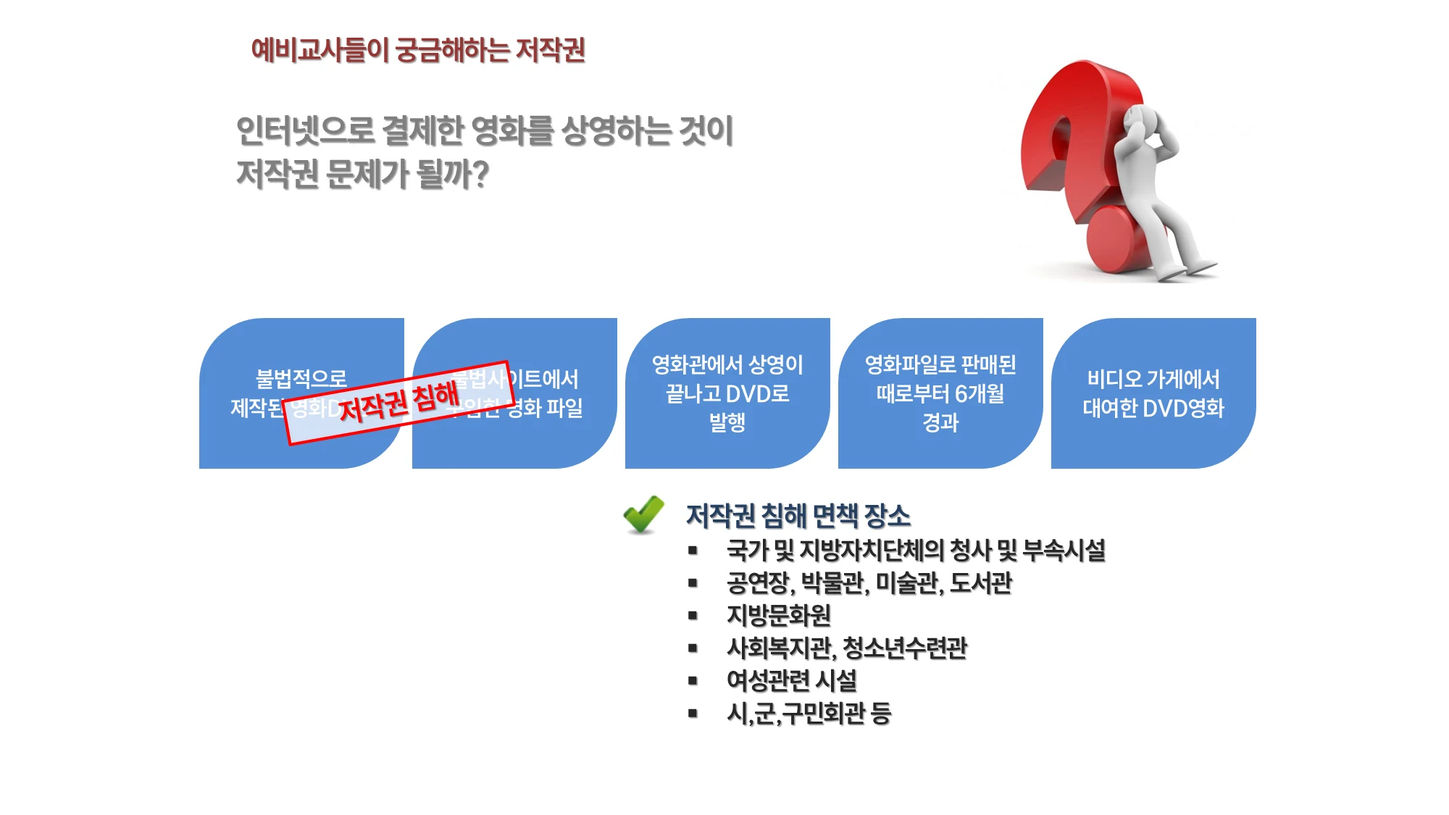
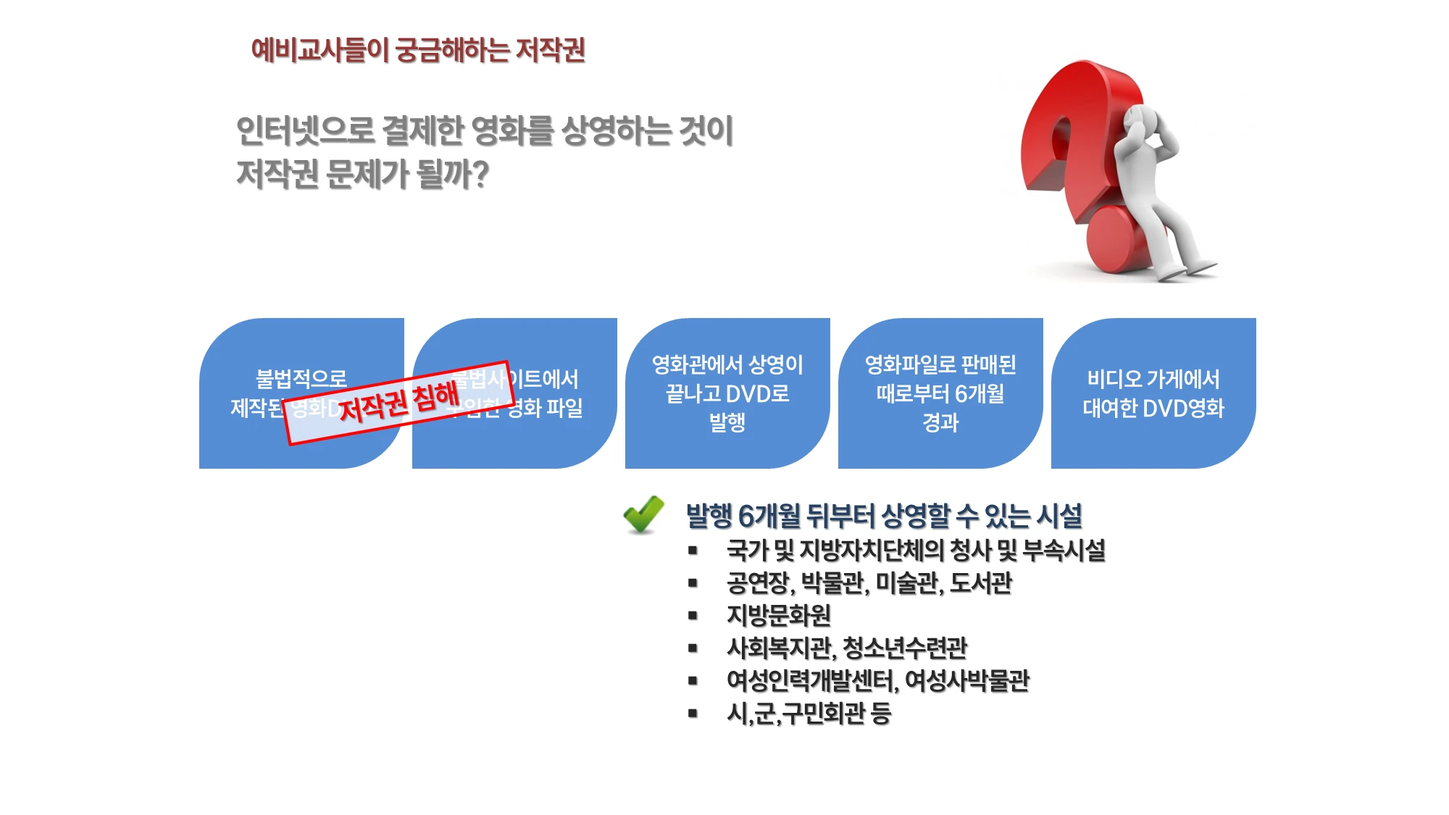
Revise computer education lecture 10 and replace its activities
Correct dates, definitions and typos, bring the copyright slides in line
with current law, and add 2025 survey figures. Slide 7 now covers
generative AI with the AI Summit Seoul & Expo 2026 poster. Two new slides
cover generative AI in cyberbullying and in copyright.

The privacy activity becomes a re-identification demo, and the game
becomes a copyright counselling quiz with grounds for each answer.
The deck now has 62 pages.

Changed region(s): [[0.527, 0.8089, 0.713, 0.8711], [0.465, 0.5911, 0.744, 0.6533]]

diff --git a/js/computer-education2-games.js b/js/computer-education2-games.js
@@ -16,22 +16,22 @@
   const button = (id, label, extra = '') => `<button type="button" id="${id}" ${extra}>${label}</button>`;
   const titles = {
     8: 'CNN, RNN, 확산 모델 체험실', 9: '우주 광물 분류소',
-    10: '디지털 시민 편집국', 11: '센서 로봇 구조 미션'
+    10: '교무실 저작권 상담소', 11: '센서 로봇 구조 미션'
   };
   const goals = {
     8: '같은 이미지를 세 모델에 넣고 이미지가 어떻게 바뀌는지 비교하세요. 샘플을 고르거나, 직접 그리거나, 내 이미지를 올릴 수 있습니다.',
     9: '학습 카드 네 장으로 1-최근접 이웃 분류기를 만들고 새 광물 8개 중 7개 이상을 분류하세요.',
-    10: '게시물의 위험 요소를 직접 고쳐 세 번의 공유 준비 심사를 통과하세요.',
+    10: '동료 선생님 여섯 분이 고민을 들고 왔습니다. 사연을 읽고 알맞은 답을 골라 주세요. 다섯 개 넘게 맞히면 성공입니다.',
     11: '센서 조건에 맞는 행동을 연결해 로봇을 출발점에서 구조 지점까지 보내세요.'
   };
   const reflections = {
     8: 'CNN의 필터를 바꿨을 때 어떤 무늬가 밝게 남았나요? RNN의 기억 유지율을 낮추면 마지막 기억에서 윗부분 정보는 어떻게 되나요? 확산 모델은 왜 학습 이미지와 비슷한 그림을 만들었을까요? 이 실습은 학습을 실행하지 않고 원리만 보여 주는 작은 모형입니다.',
     9: '같은 수의 학습 카드라도 어떤 위치의 사례를 골랐을 때 성능이 좋아졌나요? 여기서는 두 특성을 같은 척도로 비교합니다. 반복해서 본 검증 자료와 별도로, 최종 성능을 평가할 새로운 시험 자료가 필요합니다.',
-    10: '정보를 가리는 것, 사용 조건을 확인하는 것, 상대를 존중하는 행동은 각각 어떤 위험을 줄이나요? 모든 인물과 자료는 게임용 가상 사례입니다. 실제 게시나 신고는 실행되지 않습니다.',
+    10: '틀린 사연은 어디에서 헷갈렸나요? 수업에 쓰는 것과 수업 밖에서 나눠 주는 것은 무엇이 다른지, 출처만 밝히면 되는 때와 허락을 받아야 하는 때는 언제인지 짝과 말해 보세요.',
     11: '입력인 센서 값, 처리인 조건문, 출력인 모터 행동을 연결해 설명해 보세요. 실제 로봇에서는 센서 오차와 회전 시간도 보정해야 합니다. 이 활동은 하드웨어에 연결되지 않는 격자 모형입니다.'
   };
   function shell(body) {
-    game.innerHTML = `<div class="cg-heading"><span class="cg-eyebrow">${chapter}강 ${chapter === 8 ? '체험 실습, 2인 1조, 10~15분' : '게임 실습, 2인 1조, 8~12분'}</span><h2>${titles[chapter]}</h2><p>${goals[chapter]}</p></div>${body}<details class="cg-reflection"><summary>활동 후 함께 생각하기</summary><p>${reflections[chapter]}</p><p>한 사람은 조작, 한 사람은 결과 예측을 맡고 역할을 바꿔 한 번 더 도전하세요.</p></details>`;
+    game.innerHTML = `<div class="cg-heading"><span class="cg-eyebrow">${chapter}강 ${chapter === 8 ? '체험 실습, 2인 1조, 10~15분' : '게임 실습, 2인 1조, 8~12분'}</span><h2>${titles[chapter]}</h2><p>${goals[chapter]}</p></div>${body}<details class="cg-reflection"><summary>활동 후 함께 생각하기</summary><p>${reflections[chapter]}</p><p>${chapter === 10 ? '한 사람은 답을 고르고, 다른 사람은 까닭을 먼저 말합니다. 사연마다 역할을 바꾸세요.' : '한 사람은 조작, 한 사람은 결과 예측을 맡고 역할을 바꿔 한 번 더 도전하세요.'}</p></details>`;
   }
   function feedback(message, success = false) {
     q('#cg-feedback').textContent = message;
@@ -83,44 +83,50 @@
     feedback('같은 이름의 카드만 고르면 어떤 일이 생길까요? 예상한 뒤 실행해 보세요.');
   }
 
-  function editorGame() {
-    let mission = 0, attempts = 0, complete = false;
-    const missions = [
-      { title: '1. 작품 사진의 이름표', brief: '공개할 작품 사진에 가상 학생의 이름과 연락처가 보입니다. 작품 설명은 살리고 두 정보를 가려 주세요.', fields: '<label class="cg-check"><input id="cg-name" type="checkbox"> 이름 가리기</label><label class="cg-check"><input id="cg-contact" type="checkbox"> 연락처 가리기</label>', preview: () => `<b>우리 반 발명품 전시</b><p>제작자: ${q('#cg-name').checked ? '익명 학생' : '가상 학생 나별'}</p><p>연락처: ${q('#cg-contact').checked ? '비공개' : '별빛반 내부 연락처'}</p><p>종이로 만든 태양광 자동차를 소개합니다.</p>`, check: () => [q('#cg-name').checked ? '' : '이름표를 가려 주세요.', q('#cg-contact').checked ? '' : '연락처를 가려 주세요.'] },
-      { title: '2. 허락받은 별 그림', brief: '작가가 “이 활동의 게시물에 사용 가능, 작가 이름 표시”라는 조건으로 별 그림을 제공했습니다. 허락된 파일을 고르고 조건을 지켜 주세요.', fields: '<label>사용할 그림<select id="cg-asset"><option value="unknown">인터넷에서 찾은 출처 불명 그림</option><option value="allowed">가상 작가 하늘의 허락받은 별 그림</option></select></label><label class="cg-check"><input id="cg-credit" type="checkbox"> 작가 이름과 제공 사실 표시</label>', preview: () => `<b>우주 탐사 안내</b><div class="cg-art" aria-label="선택한 그림">${q('#cg-asset').value === 'allowed' ? '☆ ☆ ☆' : '? ? ?'}</div><p>${q('#cg-credit').checked ? '그림: 가상 작가 하늘, 작가 제공' : '그림 정보가 표시되지 않았습니다.'}</p>`, check: () => [q('#cg-asset').value === 'allowed' ? '' : '사용 허락이 확인된 파일로 바꿔 주세요.', q('#cg-credit').checked ? '' : '작가가 요청한 표시 조건을 지켜 주세요.'] },
-      { title: '3. 친구를 존중하는 전시', brief: '친구는 얼굴 공개에 동의하지 않았습니다. 얼굴을 가리고 작품에 대한 구체적이고 존중하는 댓글을 선택하세요.', fields: '<label class="cg-check"><input id="cg-face" type="checkbox"> 동의하지 않은 친구 얼굴 가리기</label><label>전시 댓글<select id="cg-comment"><option value="tease">이것도 작품이야? 다 같이 놀리자.</option><option value="kind">바퀴를 연결한 아이디어가 좋아. 더 잘 굴러가게 함께 고쳐 볼까?</option><option value="forward">웃긴 사진이니까 다른 단체방에도 퍼뜨리자.</option></select></label>', preview: () => `<b>친구의 작품을 소개합니다</b><p>사진: ${q('#cg-face').checked ? '작품과 가려진 얼굴' : '작품과 동의하지 않은 친구 얼굴'}</p><blockquote>${q('#cg-comment').selectedOptions[0].textContent}</blockquote>`, check: () => [q('#cg-face').checked ? '' : '공개에 동의하지 않은 얼굴을 가려 주세요.', q('#cg-comment').value === 'kind' ? '' : '조롱과 무단 확산 대신 존중하는 피드백을 선택하세요.'] }
+  function counselGame() {
+    const cases = [
+      { title: '문제집 한 단원', who: '3학년 김 선생님', story: '시중 수학 문제집 한 단원을 통째로 스캔해서 학급 온라인 방에 올리고 숙제로 내려고 해요.', options: ['수업에 쓰는 거니까 그대로 올려도 됩니다.', '출처만 적으면 올려도 됩니다.', '올리지 마세요. 꼭 필요한 몇 문제만 수업 시간에 다루거나 문제를 직접 만드세요.'], answer: 2, why: '수업에 쓰더라도 공표된 저작물의 일부분만 쓸 수 있습니다(저작권법 제25조 제3항). 문제집은 학생이 사서 쓰라고 만든 책이라, 한 단원을 통째로 나눠 주면 책을 살 까닭이 없어집니다. 출처를 적어도 마찬가지입니다.' },
+      { title: '유튜브 실험 영상', who: '5학년 박 선생님', story: '과학 시간에 유튜브에 공개된 화산 실험 영상을 교실 텔레비전으로 3분쯤 보여 주려고 해요.', options: ['보여 주셔도 됩니다.', '영상을 올린 사람에게 먼저 허락을 받아야 합니다.', '교실에서는 남이 만든 영상을 틀 수 없습니다.'], answer: 0, why: '수업에 필요한 만큼 공표된 저작물을 보여 주는 일은 허락 없이 할 수 있습니다(저작권법 제25조 제3항). 다만 영상을 내려받아 학급 누리집에 다시 올리는 일은 따로 따져 봐야 합니다.' },
+      { title: '졸업 영상 배경음악', who: '6학년 이 선생님', story: '졸업 영상에 요즘 인기 있는 가요를 배경음악으로 넣어 학부모 단체방에 파일로 보내려고 해요.', options: ['졸업 기념이니 괜찮습니다.', '30초만 넣으면 괜찮습니다.', '음악 저작권자에게 허락을 받거나, 자유롭게 쓸 수 있는 음원으로 바꾸세요.'], answer: 2, why: '졸업 영상을 나눠 주는 일은 수업이 아니어서 제25조가 적용되지 않습니다. 음악을 영상에 넣고 단체방에 보내려면 저작권자의 허락이 있어야 합니다. 30초면 괜찮다는 말은 근거가 없습니다. 공유마당 같은 곳의 자유 이용 음원을 쓰면 됩니다.' },
+      { title: '체험 학습 사진', who: '2학년 최 선생님', story: '현장 체험 학습 사진을 학교 누리집에 올리려는데, 아이들 얼굴이 또렷이 보여요.', options: ['학교 행사 사진이니 그냥 올리셔도 됩니다.', '보호자가 동의한 아이만 올리고, 나머지는 얼굴이 안 보이는 사진으로 고르세요.', '아이에게 물어보고 좋다고 하면 올리세요.'], answer: 1, why: '얼굴 사진은 누구인지 알아볼 수 있는 개인정보입니다. 만 14세 미만 아동의 개인정보를 동의받아 처리할 때는 법정대리인의 동의가 있어야 합니다(개인정보 보호법 제22조의2).' },
+      { title: '무료 글꼴', who: '행정실 정 주무관', story: '인터넷에서 받은 ‘개인 사용 무료’ 글꼴로 학교 현수막과 가정통신문을 만들려고 해요.', options: ['무료 글꼴이니 어디에 써도 됩니다.', '사용 범위를 확인하고, 학교에서 쓸 수 없으면 다른 글꼴로 바꾸세요.', '글꼴은 저작권과 상관없습니다.'], answer: 1, why: '글꼴 파일은 컴퓨터프로그램저작물로 보호받습니다. ‘개인 사용 무료’는 학교나 기관에서 쓰는 것까지 허락한 것이 아닐 수 있으니, 내려받은 곳에서 사용 범위를 먼저 확인해야 합니다.' },
+      { title: 'AI가 그린 주인공', who: '4학년 한 선생님', story: '학생이 생성형 AI로 만든 그림을 학급 신문에 실으려는데, 유명한 만화 주인공과 거의 똑같아요.', options: ['AI가 만들었으니 저작권 문제가 없습니다.', '학생 이름만 적으면 됩니다.', '싣지 마세요. 기존 캐릭터와 닮지 않게 다시 만들고, AI로 만들었다고 밝히세요.'], answer: 2, why: 'AI가 만든 그림이라도 기존 저작물과 비슷하면 저작권 침해가 될 수 있습니다. 누가 만들었는지 적는다고 달라지지 않습니다.' }
     ];
-    shell(`<div class="cg-score" id="cg-score"></div><div class="cg-columns"><section class="cg-card"><h3 id="cg-mission"></h3><p id="cg-brief"></p><fieldset id="cg-edit"><legend>게시물 수정</legend><div id="cg-fields" class="cg-fields"></div></fieldset><div class="cg-actions">${button('cg-run', '공유 준비 심사')}${button('cg-next', '다음 미션', 'disabled')}${button('cg-reset', '처음부터')}</div></section><section class="cg-card"><h3>게시물 미리보기</h3><div id="cg-preview" class="cg-post"></div><p class="cg-note">연습용 미리보기입니다. 외부에 게시되지 않습니다.</p></section></div>${status}`);
+    let now = 0, results = [], checked = false;
+    shell(`<div class="cg-score" id="cg-score"></div><div class="cg-columns"><section class="cg-card"><h3 id="cg-mission"></h3><p id="cg-brief"></p><fieldset id="cg-edit"><legend>어떻게 답할까요?</legend><div id="cg-fields" class="cg-fields"></div></fieldset><div class="cg-actions">${button('cg-run', '답 확인')}${button('cg-next', '다음 사연', 'disabled')}${button('cg-reset', '처음부터')}</div></section><section class="cg-card"><h3>상담 기록</h3><ol id="cg-log" class="cg-post"></ol><p class="cg-note">사연 속 인물은 모두 지어낸 사람입니다.</p></section></div>${status}`);
+    function draw() {
+      q('#cg-score').textContent = `사연 ${now + 1} / ${cases.length}, 맞힌 사연 ${results.filter(Boolean).length}개`;
+      q('#cg-log').innerHTML = cases.map((c, i) => `<li>${c.title}: ${i < results.length ? results[i] ? '○ 맞힘' : '× 틀림' : i === now ? '상담 중' : '기다리는 중'}</li>`).join('');
+    }
     function start() {
-      const m = missions[mission];
-      complete = false;
-      q('#cg-score').textContent = `공유 준비 도장 ${mission} / 3`;
-      q('#cg-mission').textContent = m.title;
-      q('#cg-brief').textContent = m.brief;
-      q('#cg-fields').innerHTML = m.fields;
+      const c = cases[now];
+      checked = false;
+      q('#cg-mission').textContent = `${now + 1}. ${c.title}`;
+      q('#cg-brief').textContent = `${c.who}: “${c.story}”`;
+      q('#cg-fields').innerHTML = c.options.map((text, i) => `<label class="cg-check"><input type="radio" name="cg-answer" value="${i}"> ${text}</label>`).join('');
       q('#cg-edit').disabled = false;
       q('#cg-run').disabled = false;
       q('#cg-next').disabled = true;
-      q('#cg-next').textContent = mission === 2 ? '편집국 임무 완료' : '다음 미션';
-      const preview = () => { q('#cg-preview').innerHTML = m.preview(); feedback('미리보기가 바뀌었습니다. 공개할 내용을 확인한 뒤 심사하세요.'); };
-      all('#cg-fields input, #cg-fields select').forEach(el => el.onchange = preview);
-      preview();
+      q('#cg-next').textContent = now === cases.length - 1 ? '상담 끝' : '다음 사연';
+      draw();
+      feedback('답을 고르기 전에 그렇게 생각한 까닭을 짝에게 먼저 말해 보세요.');
     }
     q('#cg-run').onclick = () => {
-      if (complete) return;
-      attempts++;
-      const issues = missions[mission].check().filter(Boolean);
-      complete = issues.length === 0;
-      if (complete) {
-        q('#cg-score').textContent = `공유 준비 도장 ${mission + 1} / 3, 심사 ${attempts}회`;
-        q('#cg-edit').disabled = true;
-        q('#cg-run').disabled = true;
-        q('#cg-next').disabled = mission === 2;
-      }
-      feedback(complete ? mission === 2 ? '임무 성공! 세 게시물의 공유 준비를 마쳤습니다. 각 미션에서 줄인 위험을 설명해 보세요.' : '심사 통과! 공유 준비 도장을 받았습니다. 다음 미션으로 이동하세요.' : `수정 후 재심사: ${issues.join(' ')}`, complete);
+      if (checked) return;
+      const picked = q('input[name="cg-answer"]:checked');
+      if (!picked) { feedback('답을 하나 골라 주세요.'); return; }
+      const c = cases[now], right = Number(picked.value) === c.answer;
+      checked = true;
+      results.push(right);
+      q('#cg-edit').disabled = true;
+      q('#cg-run').disabled = true;
+      const last = now === cases.length - 1, score = results.filter(Boolean).length;
+      q('#cg-next').disabled = last;
+      draw();
+      feedback(`${right ? '맞았습니다.' : `아쉽습니다. 알맞은 답은 “${c.options[c.answer]}”`} ${c.why}${last ? ` 상담을 마쳤습니다. 여섯 사연 가운데 ${score}개를 맞혔습니다. ${score >= 5 ? '상담소를 맡겨도 되겠습니다.' : '틀린 사연의 까닭을 다시 읽고 처음부터 한 번 더 해 보세요.'}` : ''}`, right);
     };
-    q('#cg-next').onclick = () => { if (complete && mission < 2) { mission++; start(); } };
-    q('#cg-reset').onclick = () => { mission = 0; attempts = 0; start(); };
+    q('#cg-next').onclick = () => { if (checked && now < cases.length - 1) { now++; start(); } };
+    q('#cg-reset').onclick = () => { now = 0; results = []; start(); };
     start();
   }
 
@@ -190,7 +196,7 @@
   const worksheets = {
     8: ['세로 경계 필터와 가로 경계 필터를 적용하고, 특징 지도에서 밝게 남은 곳을 표시하세요.', 'RNN 기억 유지율을 0.3과 0.9로 바꿔 32줄을 읽은 뒤, 마지막 기억에 남은 정보를 비교하세요.', '확산 모델에서 잡음 단계 t가 커질 때 그림의 변화를 적고, 생성 결과가 어느 학습 이미지에 가까웠는지 기록하세요.'],
     9: ['밝기와 질량의 분포를 보며 충전용, 냉각용 학습 사례 네 장을 고르세요.', '새 광물과 가장 가까운 학습 카드의 이름으로 분류하고 정답과 비교하세요.', '오배송을 줄이도록 사례를 바꾼 뒤, 별도 시험 자료가 필요한 이유를 쓰세요.'],
-    10: ['작품 사진의 이름과 연락처를 가리고 남길 정보를 정하세요.', '작가가 허락한 파일과 요청한 표시 조건을 확인하세요.', '얼굴 공개 동의를 확인하고 작품에 대한 존중하는 댓글을 작성하세요.'],
+    10: ['사연을 읽고 답을 고르기 전에, 그렇게 생각한 까닭을 한 줄로 적으세요.', '수업에 쓰는 일(저작권법 제25조)에 해당하는 사연과 그렇지 않은 사연을 나누세요.', '학교에서 겪을 만한 사연을 하나 지어 짝에게 물어보세요.'],
     11: ['오른쪽이 열렸을 때, 앞쪽만 열렸을 때, 둘 다 막혔을 때의 행동을 정하세요.', '오른쪽 회전 후 전진, 전진, 왼쪽 회전 규칙을 미로에서 실행하세요.', '센서 입력, 선택한 조건, 모터 행동, 위치를 한 단계씩 기록하세요.']
   };
   let mounted = false;
@@ -205,9 +211,9 @@
       if (!active || mounted) return;
       mounted = true;
       if (window.LecturePrint?.mode) {
-        shell(`<section class="cg-worksheet"><h3>실습 활동지</h3><ol>${worksheets[chapter].map(text => `<li>${text}</li>`).join('')}</ol><p>예측:</p><div class="cg-write-space"></div><p>실행 결과와 수정한 점:</p><div class="cg-write-space"></div><p>온라인 교안의 마지막 슬라이드에서 직접 실행할 수 있습니다.</p></section>`);
+        shell(`<section class="cg-worksheet"><h3>실습 활동지</h3><ol>${worksheets[chapter].map(text => `<li>${text}</li>`).join('')}</ol><p>${chapter === 10 ? '내 생각:' : '예측:'}</p><div class="cg-write-space"></div><p>${chapter === 10 ? '확인한 답과 까닭:' : '실행 결과와 수정한 점:'}</p><div class="cg-write-space"></div><p>온라인 교안의 마지막 슬라이드에서 직접 실행할 수 있습니다.</p></section>`);
         q('.cg-reflection').open = true;
-      } else ({8: modelLab, 9: mineralGame, 10: editorGame, 11: robotGame}[chapter])();
+      } else ({8: modelLab, 9: mineralGame, 10: counselGame, 11: robotGame}[chapter])();
     }
   };
 })();

diff --git a/lectures/computer-education2/10/index.html b/lectures/computer-education2/10/index.html
@@ -12,7 +12,7 @@
                             <path d="M21 12.79A9 9 0 1 1 11.21 3 7 7 0 0 0 21 12.79z" stroke="currentColor" stroke-width="2" stroke-linecap="round" stroke-linejoin="round" />
                         </svg>
                     </button><button id="mobileMenuToggle" class="mobile-menu-toggle" aria-label="메뉴 열기" aria-expanded="false">☰</button></div></div></header>
-<main data-version="20261022games" class="ce-viewer" data-chapter="10" id="main-content" tabindex="-1"><div class="ce-heading"><div><a href="/lectures/">강의자료</a> <span aria-hidden="true">›</span> <a href="/lectures/computer-education2/">컴퓨터과교육2</a><h1>10. 디지털 윤리와 저작권</h1></div><a href="/lectures/computer-education2/">전체 강의 보기</a></div>
+<main data-version="20261112l10" class="ce-viewer" data-chapter="10" id="main-content" tabindex="-1"><div class="ce-heading"><div><a href="/lectures/">강의자료</a> <span aria-hidden="true">›</span> <a href="/lectures/computer-education2/">컴퓨터과교육2</a><h1>10. 디지털 윤리와 저작권</h1></div><a href="/lectures/computer-education2/">전체 강의 보기</a></div>
 <svg width="0" height="0" style="position:absolute" aria-hidden="true"><defs><symbol id="ce-icon-chevron-left" viewBox="0 0 24 24">
   <path d="m15 18-6-6 6-6" />
 </symbol><symbol id="ce-icon-chevron-right" viewBox="0 0 24 24">
@@ -57,10 +57,10 @@
   <line x1="16" x2="14" y1="3" y2="21" />
 </symbol><symbol id="ce-icon-play" viewBox="0 0 24 24">
   <path d="M5 5a2 2 0 0 1 3.008-1.728l11.997 6.998a2 2 0 0 1 .003 3.458l-12 7A2 2 0 0 1 5 19z" />
-</symbol></defs></svg><div class="ce-stage" id="ce-stage"><div class="ce-viewport"><div class="ce-canvas"><img class="ce-slide-image" id="ce-image" width="2000" height="1125" alt="강의 슬라이드" aria-describedby="ce-slide-text" src="/images/lectures/computer-education2/10/001.webp"><div id="ce-media"></div><section class="ce-lab" id="ce-lab" hidden aria-label="체험 슬라이드"></section></div></div><div class="ce-toolbar" role="toolbar" aria-label="슬라이드 도구"><button id="ce-prev" type="button" class="ce-glass ce-prev" aria-label="이전 슬라이드" data-tip="이전 슬라이드" ><svg class="ce-icon" viewBox="0 0 24 24" aria-hidden="true" focusable="false"><use href="#ce-icon-chevron-left"></use></svg></button><button id="ce-next" type="button" class="ce-glass ce-next" aria-label="다음 슬라이드" data-tip="다음 슬라이드" ><svg class="ce-icon" viewBox="0 0 24 24" aria-hidden="true" focusable="false"><use href="#ce-icon-chevron-right"></use></svg></button><button id="ce-open-toc" type="button" class="ce-glass " aria-label="목차 검색" data-tip="목차 검색" ><svg class="ce-icon" viewBox="0 0 24 24" aria-hidden="true" focusable="false"><use href="#ce-icon-list-filter"></use></svg></button><button id="ce-open-page" type="button" class="ce-glass " aria-label="페이지 이동" data-tip="페이지 이동" ><svg class="ce-icon" viewBox="0 0 24 24" aria-hidden="true" focusable="false"><use href="#ce-icon-hash"></use></svg></button><button id="ce-open-links" type="button" class="ce-glass " aria-label="관련 링크" data-tip="관련 링크" hidden><svg class="ce-icon" viewBox="0 0 24 24" aria-hidden="true" focusable="false"><use href="#ce-icon-link"></use></svg></button><button id="ce-zoom" type="button" class="ce-glass " aria-label="확대" data-tip="확대" aria-pressed="false"><svg class="ce-icon" viewBox="0 0 24 24" aria-hidden="true" focusable="false"><use href="#ce-icon-zoom-in"></use></svg></button><button id="ce-fullscreen" aria-keyshortcuts="f" type="button" class="ce-glass " aria-label="전체 화면" data-tip="전체 화면" ><svg class="ce-icon" viewBox="0 0 24 24" aria-hidden="true" focusable="false"><use href="#ce-icon-maximize"></use></svg></button><button id="ce-print" type="button" class="ce-glass " aria-label="인쇄" data-tip="인쇄" ><svg class="ce-icon" viewBox="0 0 24 24" aria-hidden="true" focusable="false"><use href="#ce-icon-printer"></use></svg></button></div><span class="ce-loading" id="ce-loading">불러오는 중</span></div><p id="ce-status" class="sr-only" aria-live="polite"></p><p id="ce-slide-text" class="sr-only"></p><span id="ce-page-label" class="sr-only"></span><p class="cg-launch"><a href="#slide-60">게임 실습: 디지털 시민 편집국 →</a></p><nav class="ce-after" aria-label="이전과 다음 강의"><a href="/lectures/computer-education2/9/">← 9. 인공지능의 이해</a><a href="/lectures/computer-education2/11/">11. 피지컬 컴퓨팅 →</a></nav>
+</symbol></defs></svg><div class="ce-stage" id="ce-stage"><div class="ce-viewport"><div class="ce-canvas"><img class="ce-slide-image" id="ce-image" width="2000" height="1125" alt="강의 슬라이드" aria-describedby="ce-slide-text" src="/images/lectures/computer-education2/10/001.webp"><div id="ce-media"></div><section class="ce-lab" id="ce-lab" hidden aria-label="체험 슬라이드"></section></div></div><div class="ce-toolbar" role="toolbar" aria-label="슬라이드 도구"><button id="ce-prev" type="button" class="ce-glass ce-prev" aria-label="이전 슬라이드" data-tip="이전 슬라이드" ><svg class="ce-icon" viewBox="0 0 24 24" aria-hidden="true" focusable="false"><use href="#ce-icon-chevron-left"></use></svg></button><button id="ce-next" type="button" class="ce-glass ce-next" aria-label="다음 슬라이드" data-tip="다음 슬라이드" ><svg class="ce-icon" viewBox="0 0 24 24" aria-hidden="true" focusable="false"><use href="#ce-icon-chevron-right"></use></svg></button><button id="ce-open-toc" type="button" class="ce-glass " aria-label="목차 검색" data-tip="목차 검색" ><svg class="ce-icon" viewBox="0 0 24 24" aria-hidden="true" focusable="false"><use href="#ce-icon-list-filter"></use></svg></button><button id="ce-open-page" type="button" class="ce-glass " aria-label="페이지 이동" data-tip="페이지 이동" ><svg class="ce-icon" viewBox="0 0 24 24" aria-hidden="true" focusable="false"><use href="#ce-icon-hash"></use></svg></button><button id="ce-open-links" type="button" class="ce-glass " aria-label="관련 링크" data-tip="관련 링크" hidden><svg class="ce-icon" viewBox="0 0 24 24" aria-hidden="true" focusable="false"><use href="#ce-icon-link"></use></svg></button><button id="ce-zoom" type="button" class="ce-glass " aria-label="확대" data-tip="확대" aria-pressed="false"><svg class="ce-icon" viewBox="0 0 24 24" aria-hidden="true" focusable="false"><use href="#ce-icon-zoom-in"></use></svg></button><button id="ce-fullscreen" aria-keyshortcuts="f" type="button" class="ce-glass " aria-label="전체 화면" data-tip="전체 화면" ><svg class="ce-icon" viewBox="0 0 24 24" aria-hidden="true" focusable="false"><use href="#ce-icon-maximize"></use></svg></button><button id="ce-print" type="button" class="ce-glass " aria-label="인쇄" data-tip="인쇄" ><svg class="ce-icon" viewBox="0 0 24 24" aria-hidden="true" focusable="false"><use href="#ce-icon-printer"></use></svg></button></div><span class="ce-loading" id="ce-loading">불러오는 중</span></div><p id="ce-status" class="sr-only" aria-live="polite"></p><p id="ce-slide-text" class="sr-only"></p><span id="ce-page-label" class="sr-only"></span><p class="cg-launch"><a href="#slide-62">게임 실습: 교무실 저작권 상담소 →</a></p><nav class="ce-after" aria-label="이전과 다음 강의"><a href="/lectures/computer-education2/9/">← 9. 인공지능의 이해</a><a href="/lectures/computer-education2/11/">11. 피지컬 컴퓨팅 →</a></nav>
 <dialog class="ce-dialog" id="ce-dialog"><header><h2>목차 검색</h2><button id="ce-close-toc" type="button" class="ce-glass " aria-label="닫기" data-tip="닫기" data-close><svg class="ce-icon" viewBox="0 0 24 24" aria-hidden="true" focusable="false"><use href="#ce-icon-x"></use></svg></button></header><label for="ce-search">제목 또는 본문으로 찾기</label><input id="ce-search" type="search" placeholder="검색어를 입력하세요"><div class="ce-toc" id="ce-toc"></div></dialog>
-<dialog class="ce-dialog ce-small-dialog" id="ce-page-dialog"><header><h2>페이지 이동</h2><button id="ce-close-page" type="button" class="ce-glass " aria-label="닫기" data-tip="닫기" data-close><svg class="ce-icon" viewBox="0 0 24 24" aria-hidden="true" focusable="false"><use href="#ce-icon-x"></use></svg></button></header><form id="ce-go-page"><label for="ce-page">전체 <span id="ce-total">59</span>쪽</label><input id="ce-page" type="number" min="1" max="59" value="1" required><button class="ce-submit" type="submit">이동</button></form></dialog>
-<dialog class="ce-dialog ce-small-dialog" id="ce-links-dialog"><header><h2>관련 링크</h2><button id="ce-close-links" type="button" class="ce-glass " aria-label="닫기" data-tip="닫기" data-close><svg class="ce-icon" viewBox="0 0 24 24" aria-hidden="true" focusable="false"><use href="#ce-icon-x"></use></svg></button></header><div class="ce-links" id="ce-links"></div></dialog></main><noscript><p>슬라이드 이동과 체험에는 자바스크립트가 필요합니다.</p></noscript><script src="/js/computer-education2-labs.js?v=data3"></script><script src="/js/lecture-image-zoom.js?v=20261022a"></script><script src="/js/computer-education2-games.js?v=20261102lab"></script>
+<dialog class="ce-dialog ce-small-dialog" id="ce-page-dialog"><header><h2>페이지 이동</h2><button id="ce-close-page" type="button" class="ce-glass " aria-label="닫기" data-tip="닫기" data-close><svg class="ce-icon" viewBox="0 0 24 24" aria-hidden="true" focusable="false"><use href="#ce-icon-x"></use></svg></button></header><form id="ce-go-page"><label for="ce-page">전체 <span id="ce-total">62</span>쪽</label><input id="ce-page" type="number" min="1" max="62" value="1" required><button class="ce-submit" type="submit">이동</button></form></dialog>
+<dialog class="ce-dialog ce-small-dialog" id="ce-links-dialog"><header><h2>관련 링크</h2><button id="ce-close-links" type="button" class="ce-glass " aria-label="닫기" data-tip="닫기" data-close><svg class="ce-icon" viewBox="0 0 24 24" aria-hidden="true" focusable="false"><use href="#ce-icon-x"></use></svg></button></header><div class="ce-links" id="ce-links"></div></dialog></main><noscript><p>슬라이드 이동과 체험에는 자바스크립트가 필요합니다.</p></noscript><script src="/js/computer-education2-labs.js?v=20261112l10"></script><script src="/js/lecture-image-zoom.js?v=20261022a"></script><script src="/js/computer-education2-games.js?v=20261112l10"></script>
 <script src="/js/local-progress.js" defer></script>
 <script src="/js/site-learning.js" defer></script>
 <script src="/js/lecture-tools.js?v=20261107ui" defer></script>

diff --git a/lectures/computer-education2/index.html b/lectures/computer-education2/index.html
@@ -11,4 +11,4 @@
                         <svg class="moon-icon" width="18" height="18" viewBox="0 0 24 24" fill="none" xmlns="http://www.w3.org/2000/svg">
                             <path d="M21 12.79A9 9 0 1 1 11.21 3 7 7 0 0 0 21 12.79z" stroke="currentColor" stroke-width="2" stroke-linecap="round" stroke-linejoin="round" />
                         </svg>
-                    </button><button id="mobileMenuToggle" class="mobile-menu-toggle" aria-label="메뉴 열기" aria-expanded="false">☰</button></div></div></header><main class="ce-course" id="main-content" tabindex="-1"><p class="ce-eyebrow"><a href="/lectures/">강의자료</a> › 컴퓨터과교육2</p><h1>컴퓨터과교육2</h1><p class="ce-intro">컴퓨팅 시스템에서 피지컬 컴퓨팅까지.<br>슬라이드로 개념을 살펴보고 브라우저에서 직접 체험합니다.</p><div class="ce-grid"><a class="ce-card" href="/lectures/computer-education2/2/"><div class="ce-number">02</div><div><h2>컴퓨팅 시스템</h2><p>컴퓨팅 기기, 하드웨어와 소프트웨어, 네트워크</p></div></a><a class="ce-card" href="/lectures/computer-education2/3/"><div class="ce-number">03</div><div><h2>데이터의 이해와 표현방법</h2><p>데이터의 유형, 이진수, 문자와 멀티미디어 표현</p></div></a><a class="ce-card" href="/lectures/computer-education2/4/"><div class="ce-number">04</div><div><h2>데이터 구조와 분석</h2><p>자료 구조, 데이터 전처리와 분석, 시각화</p></div></a><a class="ce-card" href="/lectures/computer-education2/5/"><div class="ce-number">05</div><div><h2>컴퓨팅 사고 기반의 문제 해결</h2><p>문제 분해와 추상화, 모델링, 컴퓨팅 사고 교육</p></div></a><a class="ce-card" href="/lectures/computer-education2/6/"><div class="ce-number">06</div><div><h2>알고리즘의 구조와 종류</h2><p>순차와 선택, 반복, 정렬과 탐색 알고리즘</p></div></a><a class="ce-card" href="/lectures/computer-education2/7/"><div class="ce-number">07</div><div><h2>프로그래밍 언어의 이해 및 프로그래밍 교육의 실제</h2><p>프로그래밍 언어, 조건과 반복, 수업 활동</p></div></a><a class="ce-card" href="/lectures/computer-education2/8/"><div class="ce-number">08</div><div><h2>인공지능의 이해, 역사</h2><p>인공지능의 발전, 신경망, 현대 인공지능 기술<br>체험 실습: CNN, RNN, 확산 모델</p></div></a><a class="ce-card" href="/lectures/computer-education2/9/"><div class="ce-number">09</div><div><h2>인공지능의 이해</h2><p>불확실성, 신경망 학습, 분류와 회귀<br>게임 실습: 우주 광물 분류소</p></div></a><a class="ce-card" href="/lectures/computer-education2/10/"><div class="ce-number">10</div><div><h2>디지털 윤리와 저작권</h2><p>디지털 사회, 온라인 생활, 개인정보와 저작권<br>게임 실습: 디지털 시민 편집국</p></div></a><a class="ce-card" href="/lectures/computer-education2/11/"><div class="ce-number">11</div><div><h2>피지컬 컴퓨팅</h2><p>센서와 출력, 아이온 로봇, 움직임과 소리 제어<br>게임 실습: 센서 로봇 구조 미션</p></div></a></div><section class="activity-links"><h2>관련 실습 바로가기</h2><a href="/lectures/computer-education2/8/#slide-84">8강 신경망 게임</a><a href="/lectures/computer-education2/9/#slide-30">9강 데이터 분류 게임</a><a href="/lectures/computer-education2/10/#slide-60">10강 디지털 윤리 게임</a><a href="/lectures/computer-education2/11/#slide-44">11강 피지컬 컴퓨팅 게임</a></section></main></body></html>
+                    </button><button id="mobileMenuToggle" class="mobile-menu-toggle" aria-label="메뉴 열기" aria-expanded="false">☰</button></div></div></header><main class="ce-course" id="main-content" tabindex="-1"><p class="ce-eyebrow"><a href="/lectures/">강의자료</a> › 컴퓨터과교육2</p><h1>컴퓨터과교육2</h1><p class="ce-intro">컴퓨팅 시스템에서 피지컬 컴퓨팅까지.<br>슬라이드로 개념을 살펴보고 브라우저에서 직접 체험합니다.</p><div class="ce-grid"><a class="ce-card" href="/lectures/computer-education2/2/"><div class="ce-number">02</div><div><h2>컴퓨팅 시스템</h2><p>컴퓨팅 기기, 하드웨어와 소프트웨어, 네트워크</p></div></a><a class="ce-card" href="/lectures/computer-education2/3/"><div class="ce-number">03</div><div><h2>데이터의 이해와 표현방법</h2><p>데이터의 유형, 이진수, 문자와 멀티미디어 표현</p></div></a><a class="ce-card" href="/lectures/computer-education2/4/"><div class="ce-number">04</div><div><h2>데이터 구조와 분석</h2><p>자료 구조, 데이터 전처리와 분석, 시각화</p></div></a><a class="ce-card" href="/lectures/computer-education2/5/"><div class="ce-number">05</div><div><h2>컴퓨팅 사고 기반의 문제 해결</h2><p>문제 분해와 추상화, 모델링, 컴퓨팅 사고 교육</p></div></a><a class="ce-card" href="/lectures/computer-education2/6/"><div class="ce-number">06</div><div><h2>알고리즘의 구조와 종류</h2><p>순차와 선택, 반복, 정렬과 탐색 알고리즘</p></div></a><a class="ce-card" href="/lectures/computer-education2/7/"><div class="ce-number">07</div><div><h2>프로그래밍 언어의 이해 및 프로그래밍 교육의 실제</h2><p>프로그래밍 언어, 조건과 반복, 수업 활동</p></div></a><a class="ce-card" href="/lectures/computer-education2/8/"><div class="ce-number">08</div><div><h2>인공지능의 이해, 역사</h2><p>인공지능의 발전, 신경망, 현대 인공지능 기술<br>체험 실습: CNN, RNN, 확산 모델</p></div></a><a class="ce-card" href="/lectures/computer-education2/9/"><div class="ce-number">09</div><div><h2>인공지능의 이해</h2><p>불확실성, 신경망 학습, 분류와 회귀<br>게임 실습: 우주 광물 분류소</p></div></a><a class="ce-card" href="/lectures/computer-education2/10/"><div class="ce-number">10</div><div><h2>디지털 윤리와 저작권</h2><p>디지털 사회, 온라인 생활, 개인정보와 저작권<br>게임 실습: 교무실 저작권 상담소</p></div></a><a class="ce-card" href="/lectures/computer-education2/11/"><div class="ce-number">11</div><div><h2>피지컬 컴퓨팅</h2><p>센서와 출력, 아이온 로봇, 움직임과 소리 제어<br>게임 실습: 센서 로봇 구조 미션</p></div></a></div><section class="activity-links"><h2>관련 실습 바로가기</h2><a href="/lectures/computer-education2/8/#slide-84">8강 신경망 게임</a><a href="/lectures/computer-education2/9/#slide-30">9강 데이터 분류 게임</a><a href="/lectures/computer-education2/10/#slide-60">10강 디지털 윤리 게임</a><a href="/lectures/computer-education2/11/#slide-44">11강 피지컬 컴퓨팅 게임</a></section></main></body></html>

diff --git a/js/computer-education2-labs.js b/js/computer-education2-labs.js
@@ -27,8 +27,13 @@
   const draw=()=>{const threshold=Number(q('#threshold').value)/100;result(`모델의 양성 점수: 0.72\n임계값: ${threshold.toFixed(2)}\n분류 결과: ${0.72>=threshold?'양성':'음성'}\n점수가 임계값 이상이면 양성으로 분류합니다.`)};q('#threshold').oninput=draw;draw();
   const a=document.createElement('a');a.href='/ai-understanding-lab/';a.textContent='추가 실습: 데이터로 인공지능 학습시키기 →';panel.append(a);
  }else if(chapter===10){
-  box('공유 전 정보 가리기','가상의 게시물에서 이름과 연락처를 숨겨 보세요. 아래 자료는 체험을 위한 예시입니다.','<label><input id="name" type="checkbox" checked> 이름 숨기기</label><label><input id="contact" type="checkbox" checked> 연락처 숨기기</label>');
-  const draw=()=>result(`이름: ${q('#name').checked?'익명':'가상 학생 A'}\n연락처: ${q('#contact').checked?'비공개':'student@example.invalid'}\n내용: 오늘 만든 프로그램의 화면을 공유합니다.`);q('#name').onchange=draw;q('#contact').onchange=draw;draw();
+  box('모이면 보이는 사람','이름을 지워도 다른 정보가 모이면 누구인지 드러납니다. 가상의 학교 전교생 480명 가운데 한 학생의 글에 아래 정보가 하나씩 드러난다고 생각하고 켜 보세요.','<label><input type="checkbox" data-k="0"> 학년</label><label><input type="checkbox" data-k="1"> 반</label><label><input type="checkbox" data-k="2"> 성별</label><label><input type="checkbox" data-k="3"> 태어난 달</label><label><input type="checkbox" data-k="4"> 방과후 동아리</label>');
+  // 480 made-up students: 6 grades, 4 classes of 20; the other fields come from a fixed sequence.
+  let seed=20261112;const next=n=>{seed=(seed*1103515245+12345)%2147483648;return Math.floor(seed/65536)%n};
+  const roster=Array.from({length:480},(_,i)=>[i%6,Math.floor(i/6)%4,next(2),next(12),next(5)]),target=roster[137];
+  const draw=()=>{const on=[...panel.querySelectorAll('[data-k]')].filter(e=>e.checked).map(e=>Number(e.dataset.k)),n=roster.filter(st=>on.every(k=>st[k]===target[k])).length;
+   result(`드러난 정보에 맞는 학생: ${n}명 (전교생 480명)\n${n===480?'아직은 누구 이야기인지 알 수 없습니다.':n>1?`${n}명 가운데 한 명입니다. 정보를 하나 더 켜 보세요.`:'한 명만 남았습니다. 이름이 없어도, 모으면 누구인지 알 수 있는 정보는 개인정보입니다.'}\n학생과 학교는 모두 지어낸 것입니다.`)};
+  panel.querySelectorAll('[data-k]').forEach(e=>e.onchange=draw);draw();
  }else if(chapter===11){
   box('센서 값으로 LED 제어하기','빛 센서가 어두움을 감지하면 LED를 켜는 모형입니다. 센서 값과 기준값을 바꿔 보세요.','<label>빛 센서 값 <input id="light" type="range" min="0" max="100" value="20"></label><label>기준값 <input id="threshold" type="range" min="0" max="100" value="40"></label>');
   const draw=()=>{const light=Number(q('#light').value),threshold=Number(q('#threshold').value),on=light<threshold;result(`입력: 빛 센서 ${light}\n처리: ${light} < ${threshold} → ${on?'참':'거짓'}\n출력: LED ${on?'켜짐 💡':'꺼짐'}\n이 체험은 실제 로봇과 연결되지 않는 브라우저 모형입니다.`)};q('#light').oninput=draw;q('#threshold').oninput=draw;draw();

diff --git a/data/lectures/computer-education2/README.md b/data/lectures/computer-education2/README.md
@@ -12,7 +12,7 @@
 | 7 | 프로그래밍 언어의 이해 및 프로그래밍 교육의 실제 | 30 |
 | 8 | 인공지능의 이해, 역사 | 77 |
 | 9 | 인공지능의 이해 | 28 |
-| 10 | 디지털 윤리와 저작권 | 58 |
+| 10 | 디지털 윤리와 저작권 | 60 |
 | 11 | 피지컬 컴퓨팅 | 42 |
 
 원본의 `10 인공지능의 이해`는 사용자 지정에 따라 9번으로 배치했다. 원본 자료와 개념별 체험으로 구성했으며, 설명 슬라이드 복원 후 현재 전체 465장이다.
@@ -49,3 +49,12 @@ python scripts/sync_slide_layers.py --course computer-education2 --source-dir <P
 - 11번 원본은 편집을 막는 포함 글꼴 때문에 읽기 전용으로 열리므로, 작업용 사본에서 포함 글꼴을 뺀 뒤 연다.
 
 글자 줄 2,761개와 그림 515개가 들어갔다. 뷰어는 `js/computer-education2.js`가 그리고, 확대 화면은 `js/lecture-image-zoom.js`와 `css/lecture-image-zoom.css`가 맡는다. `tests/lecture-layers.browser.cjs`가 모든 슬라이드에서 줄의 위치와 폭, 그림 파일, 끌어서 선택하기, 그림 열고 닫기를 확인한다. 휴대전화 화면에서 그림 위에서 시작한 밀기로 쪽이 넘어가는 것과 두 배 확대에서 줄이 글자 위에 머무는 것도 확인했다. 실제 터치 기기는 확인하지 않았다.
+
+2026-11-12 10번 강의 개정: 원본 PPTX의 작업용 사본에서 본문을 고치고 바뀐 슬라이드만 다시 내보냈다. 원본 파일은 수정하지 않았으므로, `sync_slide_layers.py`를 10번에 다시 돌리려면 고친 사본을 원본 자리에 두어야 한다. 그러지 않으면 바뀐 슬라이드의 글자 줄이 빠진다.
+
+- 연도와 표기 오류를 바로잡았다. ENIAC 1946년, ARPANET 1969년, 스마트폰 보급 2000년대 후반, 공표권과 동일성유지권 정의, 사진CD, 학교 축제, 간접적인 등.
+- 현행 법령에 맞췄다. 판매용 음반은 상업용 음반으로, 수업 목적 이용의 "10% 이내"는 법에 수치가 없다는 설명으로, 영화 상영 시설 목록은 저작권법 시행령 제11조제8호의 뜻(발행 6개월 뒤부터 상영)으로 고쳤다.
+- 7쪽 "2020년대 이후"는 생성형 AI, AI 에이전트, 인공지능기본법 내용으로 바꾸고 그림을 AI Summit Seoul & Expo 2026 포스터로 교체했다.
+- 2025년 사이버폭력 실태조사와 스마트폰 과의존 실태조사 수치를 11쪽과 16쪽에 넣었다. 인터넷중독 대응센터는 스마트쉼센터로 고쳤다.
+- "생성형 AI와 사이버 폭력"(15쪽), "생성형 AI와 저작권"(34쪽)을 새로 넣었다. 이미지 파일은 `059.webp`, `060.webp`이다. `sourcePage`는 고친 사본의 쪽 번호다.
+- 체험은 "모이면 보이는 사람"(26쪽), 게임 실습은 "교무실 저작권 상담소"(62쪽)로 바꿨다. 전체 62쪽이다.
